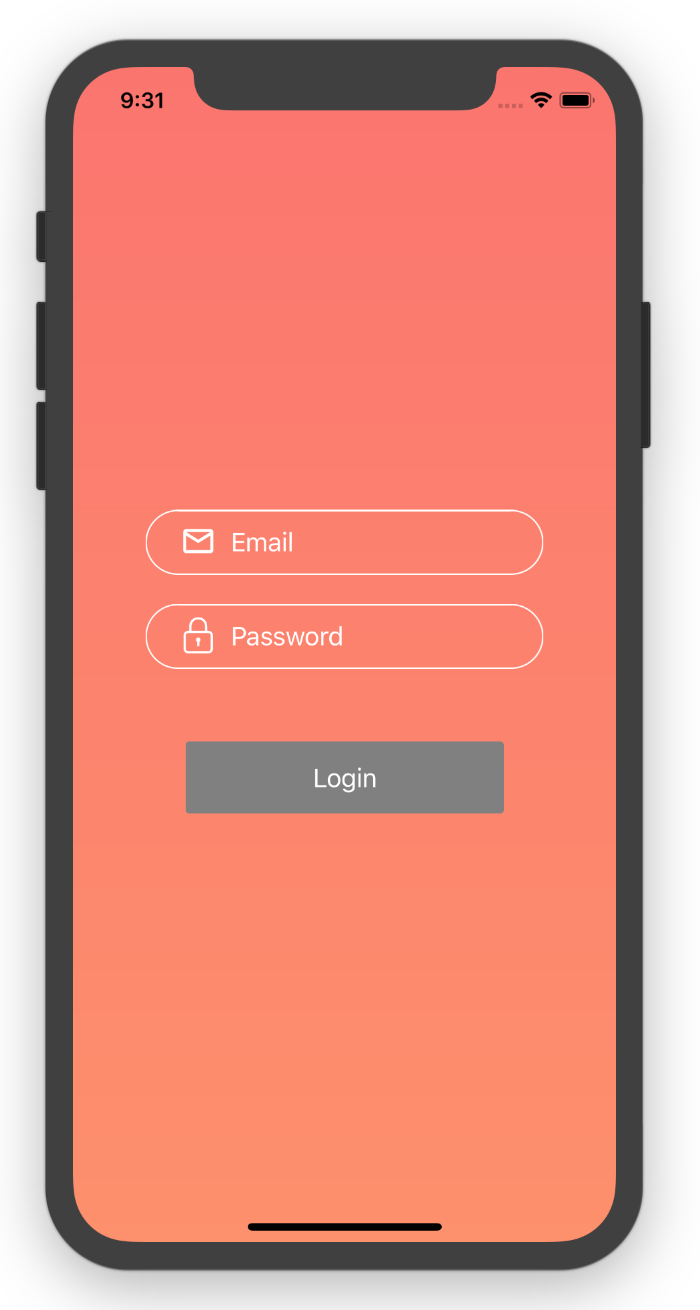
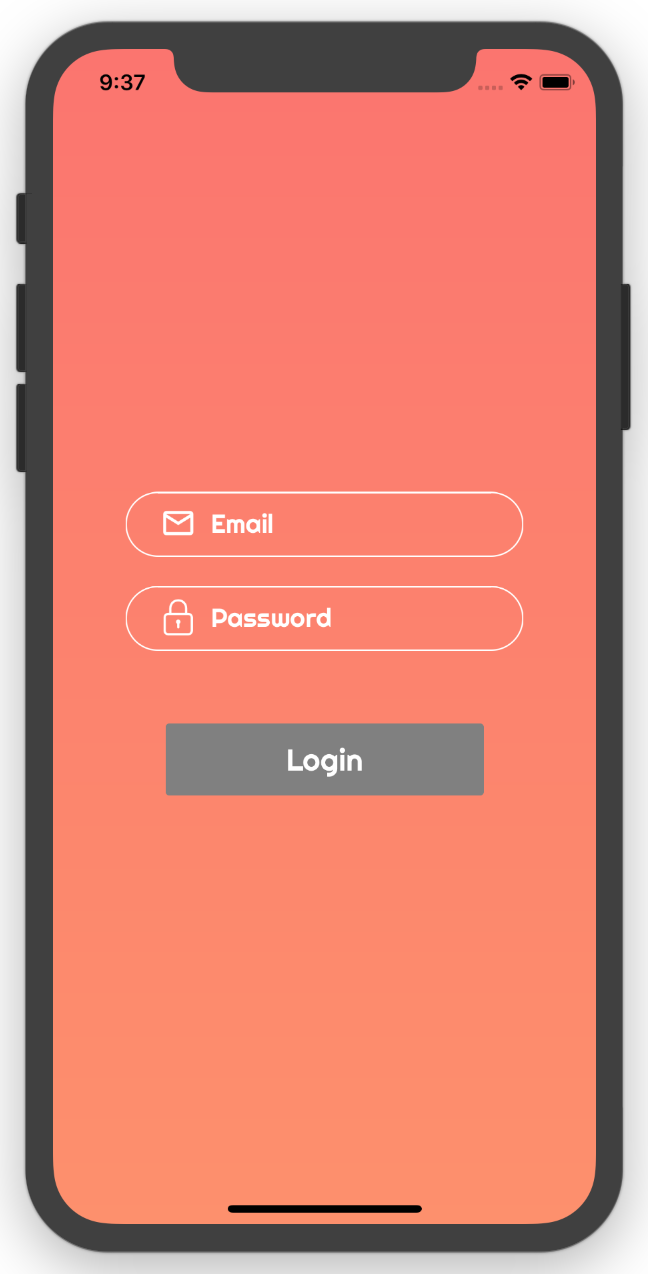
updated screenshots

diff --git a/app/screens/LoginScreen.js b/app/screens/LoginScreen.js
@@ -84,7 +84,7 @@ export default class LoginScreen extends React.Component {
               errorMessage="Please enter a valid email address"
               errorStyle={{ color: 'white' }}
               containerStyle={styles.inputContainer}
-              inputStyle={{ color: 'white' }}
+              inputStyle={{ color: 'white', fontFamily: 'Righteous' }}
               onSubmitEditing={() =>
                 this.passwordInput.focus()
               }
@@ -108,7 +108,7 @@ export default class LoginScreen extends React.Component {
               errorStyle={{color: 'white'}}
               returnKeyType="go"
               containerStyle={styles.inputContainer}
-              inputStyle={{ color: 'white'}}
+              inputStyle={{ color: 'white', fontFamily: 'Righteous' }}
               onSubmitEditing={() => {
                 this.loginButtonPressed()
               }}
@@ -119,6 +119,7 @@ export default class LoginScreen extends React.Component {
               buttonStyle={[styles.loginButtonStyle, !this.loginValid() && { backgroundColor: 'gray'}]}
               disabled={!this.loginValid()}
               onPress={this.loginButtonPressed.bind(this)}
+              textStyle={styles.buttonTextStyle}
             />
           </View>
         }
